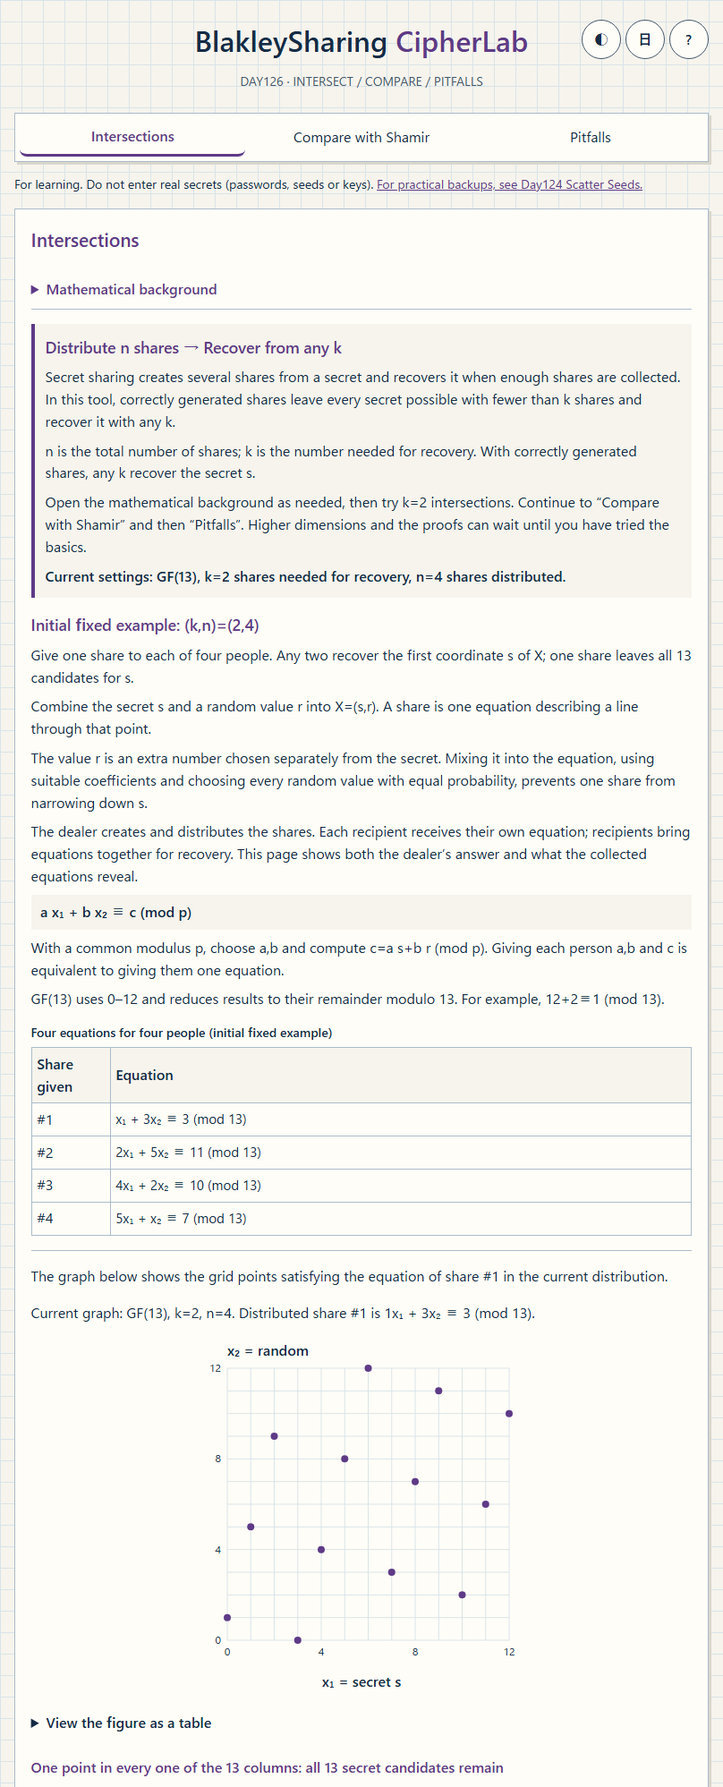
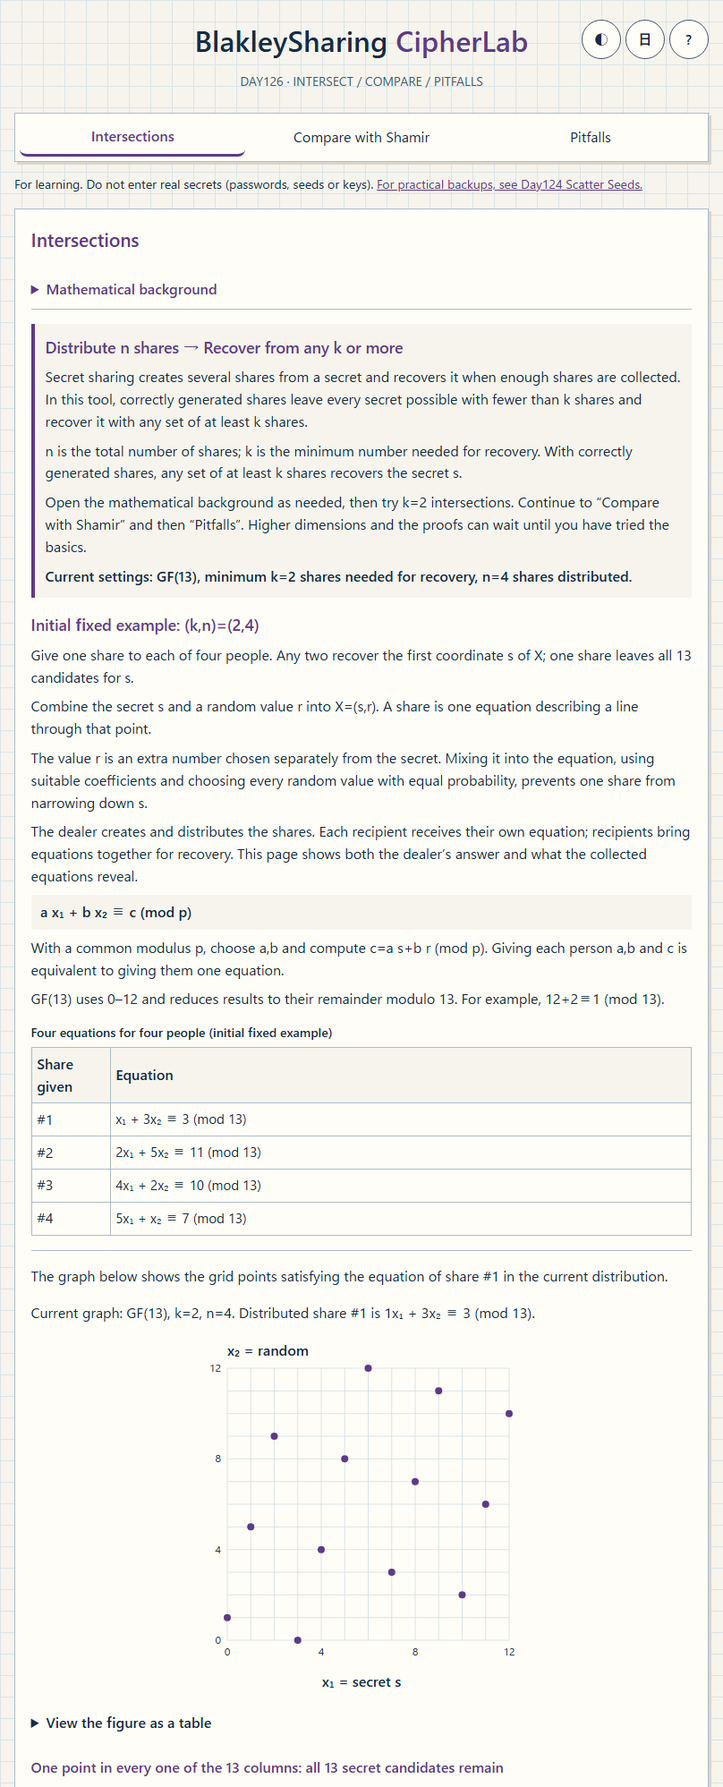
復元条件を任意のk枚以上と明記

diff --git a/messages.js b/messages.js
@@ -6,7 +6,7 @@
   'use strict';
   return {
     ja: {
-      secretSharingDefinition: "秘密分散は、秘密から複数のシェア（配る情報）を作り、必要な枚数を集めて秘密を求める方法です。この教材では、正しく作ればk枚未満からは秘密の値を絞れず、任意のk枚で復元できます。",
+      secretSharingDefinition: "秘密分散は、秘密から複数のシェア（配る情報）を作り、必要な枚数を集めて秘密を求める方法です。この教材では、正しく作ればk枚未満からは秘密の値を絞れず、任意のk枚以上で復元できます。",
       learningRoute: "まず数学の前提を必要に応じて開き、k=2の交点を試します。次に「Shamirと並べる」、最後に「確かめる」へ進みます。k=3以上と座学の証明は、基本を試した後に読めます。",
       primerRoles: "シェアを作って配る人をディーラーと呼びます。受取人は自分の式を受け取り、復元時に式を持ち寄ります。この画面は、配る人の答えと、集めた式だけからわかることの両方を示します。",
       primerRandom: "rは秘密と別に選ぶ補助の数です。式にrを混ぜ、正しい係数の組を使い、乱数を全体から同じ確率で選ぶと、1枚ではsを絞れなくなります。",
@@ -28,7 +28,7 @@
       termSecretName: "秘密 s",
       termSecretDefinition: "必要な枚数を集めて求めたい元の値です。この教材では点Xの第1座標に置きます。",
       termThresholdName: "しきい値 k と総数 n",
-      termThresholdDefinition: "nは配る枚数、kは復元に必要な枚数です。正しく作ったシェアなら、どのk枚でも復元できます。",
+      termThresholdDefinition: "nは配る枚数、kは復元に必要な最小枚数です。正しく作ったシェアなら、任意のk枚以上で復元できます。",
       termCandidateName: "候補",
       termCandidateDefinition: "集めたシェアと、わかっている生成条件に矛盾しない値や点です。候補を選ぶ操作は、答えの入力ではありません。",
       termRandomName: "乱数",
@@ -96,7 +96,7 @@
       lesson2Guide: "この節は「k枚なら復元、k−1枚なら情報が増えない」を証明します。一様な乱数の下で、どの秘密にも同じ数の乱数の組が対応することが要点です。下の行列はその確認に使います。",
       lesson3Guide: "1979年の論文と、この教材の有限体の式は同じ書き方ではありません。原文の記述と、教材で置いた条件を分けて読みます。原資料を詳しく確認したい人のための節です。",
       lesson5Guide: "1枚にいくつの数を入れる必要があるかを比べます。係数を毎回渡すか、番号から決めるかで量が変わります。表の単位は有限体の数1個で、保存容量のバイト数ではありません。",
-      lesson6Guide: "どのk枚でも復元し、k−1枚では秘密を絞らないように、式の係数を選ぶ必要があります。ここでは実装済みの2つの作り方と、関連する別の構成・上限を分けて説明します。",
+      lesson6Guide: "任意のk枚以上で復元し、k−1枚では秘密を絞らないように、式の係数を選ぶ必要があります。ここでは実装済みの2つの作り方と、関連する別の構成・上限を分けて説明します。",
       lesson8Guide: "線形とは、秘密と乱数をそれぞれ決まった数倍して足す形です。この見方を広げると、人数だけでなく「誰と誰がそろえば戻せるか」も表せます。下はそのための発展事項です。",
       lesson9Guide: "枚数を増やすと、式の答えが合わないことや、一定の条件でどの1枚が合わないかを調べられます。これは秘密を隠す性質とも、送信者を確かめる認証とも別の話です。",
       lesson10Guide: "次に学ぶ内容と、実用のバックアップを扱うツールを選ぶ案内です。表で、目的と操作の違いを確認してください。",
@@ -114,9 +114,9 @@
       practical: "実用のバックアップはDay124 Scatter Seedsへ。",
       intro: "下の図は、現在配っているシェア#1の式を満たす格子点です。",
       nearestGridPoint: "最寄りの格子点",
-      thresholdTitle: "n枚を配る → 任意のk枚で復元",
-      thresholdDefinition: "nは配るシェアの総数、kは復元に必要な枚数です。正しく作ったシェアなら、どのk枚を集めても秘密sを復元できます。",
-      thresholdSummary: "現在の設定：GF({p})、復元に必要な枚数k={k}、配る総数n={n}。",
+      thresholdTitle: "n枚を配る → 任意のk枚以上で復元",
+      thresholdDefinition: "nは配るシェアの総数、kは復元に必要な最小枚数です。正しく作ったシェアなら、任意のk枚以上を集めて秘密sを復元できます。",
+      thresholdSummary: "現在の設定：GF({p})、復元に必要な最小枚数k={k}、配る総数n={n}。",
       primerTitle: "最初の固定例：(k,n)=(2,4)",
       primerPeople: "4人に1枚ずつ配ります。どの2枚からも点Xの第1座標sが求まり、1枚ではsの13候補がすべて残ります。",
       primerPoint: "秘密sと乱数rを組にして、点X=(s,r)を作ります。1枚のシェアは、この点を通る直線を表す1本の式です。",
@@ -380,13 +380,13 @@
       compareLinearGeneralization: "集まったシェアから秘密の座標を求められるかを行列で決める考え方は、線形秘密分散につながります。",
       compareLesson: "座学8：線形秘密分散への橋",
       lesson1Title: "1. しきい値法と1979年の2つの提案",
-      lesson1Intro: "秘密分散では、秘密から複数のシェアを作ります。(k,n) しきい値法では、n枚のうち任意のk枚で秘密を戻せます。",
+      lesson1Intro: "秘密分散では、秘密から複数のシェアを作ります。(k,n) しきい値法では、n枚のうち任意のk枚以上で秘密を戻せます。",
       lesson1Privacy: "完全な秘密分散では、k枚未満を見ても秘密についての確率は変わりません。候補が複数残るだけでは、この性質を示したことにはなりません。",
       lesson1History: "ShamirとBlakleyは1979年に、しきい値法を独立に提案しました。このツールでは、有限体での超平面の交点を使う形を学びます。",
       lesson1TableCaption: "秘密とシェアの見せ方",
       lesson1TableH1: "方式",
       lesson1TableH2: "学習用の表し方",
-      lesson1TableH3: "k枚を集めたとき",
+      lesson1TableH3: "k枚以上を集めたとき",
       lesson1TableR1C1: "Shamir",
       lesson1TableR1C2: "秘密は多項式の定数項。シェアは曲線上の点",
       lesson1TableR1C3: "多項式を定めて定数項を読む",
@@ -616,7 +616,7 @@
       lesson8MapR5C1: "e₁ を作れない集合",
       lesson8MapR5C2: "資格のない集合",
       lesson8MapR5C3: "第2節の乱数の前提で、sの情報が増えない",
-      lesson8Check: "検査 (ii) は、k−1枚のどの集合もe₁ を作れないことを保証します。検査 (i) と合わせると、任意のk枚で復元できるしきい値の参加条件になります。",
+      lesson8Check: "検査 (ii) は、k−1枚のどの集合もe₁ を作れないことを保証します。検査 (i) と合わせると、任意のk枚以上で復元できるしきい値の参加条件になります。",
       lesson8Msp: "行に参加者名を付け、目標ベクトルを作れるかで受理を決める表現を、モノトーン・スパン・プログラム（MSP）と呼びます。",
       lesson8History: "BeimelのRemark 2は、Brickellが1989年に1人1行の場合を暗黙に定義し、Karchmer–Wigdersonが1993年にスパン・プログラムを明示的に定義したと説明しています。",
       lesson8Status: "この説明はBeimelのClaim 2・Remark 2（二次・本文確認）に基づきます。BrickellとKarchmer–Wigdersonの原論文は書誌を確認しましたが、本文は未確認です。",
@@ -671,8 +671,9 @@
       lesson10Day125: "Day125 Overlay QR Shares",
     },
     en: {
-      secretSharingDefinition: "Secret sharing creates several shares from a secret and recovers it when enough shares are collected. In this tool, "
-        + "correctly generated shares leave every secret possible with fewer than k shares and recover it with any k.",
+      secretSharingDefinition: "Secret sharing creates several shares from a secret and recovers it when enough shares are collected. In this "
+        + "tool, correctly generated shares leave every secret possible with fewer than k shares and recover it with any "
+        + "set of at least k shares.",
       learningRoute: "Open the mathematical background as needed, then try k=2 intersections. Continue to “Compare with Shamir” and then “Pitfalls”. "
         + "Higher dimensions and the proofs can wait until you have tried the basics.",
       primerRoles: "The dealer creates and distributes the shares. Each recipient receives their own equation; recipients bring equations together for "
@@ -707,7 +708,8 @@
       termSecretName: "Secret s",
       termSecretDefinition: "The original value to recover by collecting enough shares. This tool places it in the first coordinate of X.",
       termThresholdName: "Threshold k and total n",
-      termThresholdDefinition: "n is the number distributed; k is the number needed for recovery. With correctly generated shares, any k suffice.",
+      termThresholdDefinition: "n is the number distributed; k is the minimum number needed for recovery. With correctly generated shares, any"
+        + " set of at least k shares suffices.",
       termCandidateName: "Candidate",
       termCandidateDefinition: "A value or point consistent with the collected shares and known generation rules. Selecting a candidate does not enter "
         + "the answer.",
@@ -802,8 +804,9 @@
         + "the conditions used here, for readers who want to examine the original source.",
       lesson5Guide: "Compare how many numbers one share needs. The count changes when coefficients are distributed each time or derived from indices. "
         + "The table counts field elements, not bytes of stored data.",
-      lesson6Guide: "Coefficients must allow any k shares to recover the secret while k−1 reveal no information under the stated randomness "
-        + "assumptions. This section distinguishes the two implemented methods from other constructions and bounds.",
+      lesson6Guide: "Coefficients must allow any set of at least k shares to recover the secret while k−1 reveal no information "
+        + "under the stated randomness assumptions. This section distinguishes the two implemented methods from other "
+        + "constructions and bounds.",
       lesson8Guide: "Linear means multiplying the secret and random values by fixed coefficients and adding them. Extending this view can describe "
         + "which people must join together, not just how many. The material below develops this idea.",
       lesson9Guide: "Extra shares can reveal inconsistent answers and, under stated conditions, identify one faulty share. This is separate both from "
@@ -825,10 +828,10 @@
       practical: "For practical backups, see Day124 Scatter Seeds.",
       intro: "The graph below shows the grid points satisfying the equation of share #1 in the current distribution.",
       nearestGridPoint: "Nearest grid point",
-      thresholdTitle: "Distribute n shares → Recover from any k",
-      thresholdDefinition: "n is the total number of shares; k is the number needed for recovery. With correctly generated shares, any k recover "
-        + "the secret s.",
-      thresholdSummary: "Current settings: GF({p}), k={k} shares needed for recovery, n={n} shares distributed.",
+      thresholdTitle: "Distribute n shares → Recover from any k or more",
+      thresholdDefinition: "n is the total number of shares; k is the minimum number needed for recovery. With correctly generated shares,"
+        + " any set of at least k shares recovers the secret s.",
+      thresholdSummary: "Current settings: GF({p}), minimum k={k} shares needed for recovery, n={n} shares distributed.",
       primerTitle: "Initial fixed example: (k,n)=(2,4)",
       primerPeople: "Give one share to each of four people. Any two recover the first coordinate s of X; one share leaves all 13 "
         + "candidates for s.",
@@ -1136,8 +1139,8 @@
         + "secret sharing.",
       compareLesson: "Theory 8: a bridge to linear secret sharing",
       lesson1Title: "1. Threshold schemes and the two proposals of 1979",
-      lesson1Intro: "Secret sharing creates several shares from a secret. In a (k,n) threshold scheme, any k of the n shares "
-        + "recover the secret.",
+      lesson1Intro: "Secret sharing creates several shares from a secret. In a (k,n) threshold scheme, any set of at least k of the"
+        + " n shares can recover the secret.",
       lesson1Privacy: "Perfect secrecy means that fewer than k shares do not change the probabilities of the secret. Having "
         + "several remaining candidates alone is insufficient.",
       lesson1History: "Shamir and Blakley independently proposed threshold schemes in 1979. This tool explores a form using "
@@ -1145,7 +1148,7 @@
       lesson1TableCaption: "Two ways to represent a secret and its shares",
       lesson1TableH1: "Scheme",
       lesson1TableH2: "Educational representation",
-      lesson1TableH3: "With k shares",
+      lesson1TableH3: "With at least k shares",
       lesson1TableR1C1: "Shamir",
       lesson1TableR1C2: "The secret is the constant coefficient; shares are points on the polynomial",
       lesson1TableR1C3: "Determine the polynomial and read its constant coefficient",
@@ -1423,8 +1426,8 @@
       lesson8MapR5C1: "A set that cannot span e₁",
       lesson8MapR5C2: "Unqualified set",
       lesson8MapR5C3: "Reveals no information about s under Section 2’s randomness assumptions",
-      lesson8Check: "Check (ii) ensures that no set of k−1 shares spans e₁. Together with (i), it gives a threshold access "
-        + "rule: any k shares can reconstruct.",
+      lesson8Check: "Check (ii) ensures that no set of k−1 shares spans e₁. Together with (i), it gives a threshold access rule: "
+        + "any set of at least k shares can reconstruct.",
       lesson8Msp: "A monotone span program (MSP) labels rows by participants and accepts a set when its rows span the target "
         + "vector.",
       lesson8History: "Beimel’s Remark 2 credits Brickell (1989) with the implicit one-row-per-party case, and "

diff --git a/index.html b/index.html
@@ -85,9 +85,9 @@
         </section>
       </details>
       <section id="sharing-primer" class="sharing-primer" aria-labelledby="threshold-title">
-        <h3 id="threshold-title" class="threshold-flow" data-i18n="thresholdTitle">n枚を配る → 任意のk枚で復元</h3>
-        <p data-i18n="secretSharingDefinition">秘密分散は、秘密から複数のシェア（配る情報）を作り、必要な枚数を集めて秘密を求める方法です。この教材では、正しく作ればk枚未満からは秘密の値を絞れず、任意のk枚で復元できます。</p>
-        <p data-i18n="thresholdDefinition">nは配るシェアの総数、kは復元に必要な枚数です。正しく作ったシェアなら、どのk枚を集めても秘密sを復元できます。</p>
+        <h3 id="threshold-title" class="threshold-flow" data-i18n="thresholdTitle">n枚を配る → 任意のk枚以上で復元</h3>
+        <p data-i18n="secretSharingDefinition">秘密分散は、秘密から複数のシェア（配る情報）を作り、必要な枚数を集めて秘密を求める方法です。この教材では、正しく作ればk枚未満からは秘密の値を絞れず、任意のk枚以上で復元できます。</p>
+        <p data-i18n="thresholdDefinition">nは配るシェアの総数、kは復元に必要な最小枚数です。正しく作ったシェアなら、任意のk枚以上を集めて秘密sを復元できます。</p>
         <p data-i18n="learningRoute">まず数学の前提を必要に応じて開き、k=2の交点を試します。次に「Shamirと並べる」、最後に「確かめる」へ進みます。k=3以上と座学の証明は、基本を試した後に読めます。</p>
         <p id="threshold-summary" class="threshold-current"></p>
       </section>
@@ -460,7 +460,7 @@
       <dl class="beginner-glossary">
         <dt data-i18n="termShareName">シェア</dt><dd data-i18n="termShareDefinition">秘密から作り、各人に配る情報です。この教材のBlakleyでは、係数と右辺で表す1本の式に当たります。</dd>
         <dt data-i18n="termSecretName">秘密 s</dt><dd data-i18n="termSecretDefinition">必要な枚数を集めて求めたい元の値です。この教材では点Xの第1座標に置きます。</dd>
-        <dt data-i18n="termThresholdName">しきい値 k と総数 n</dt><dd data-i18n="termThresholdDefinition">nは配る枚数、kは復元に必要な枚数です。正しく作ったシェアなら、どのk枚でも復元できます。</dd>
+        <dt data-i18n="termThresholdName">しきい値 k と総数 n</dt><dd data-i18n="termThresholdDefinition">nは配る枚数、kは復元に必要な最小枚数です。正しく作ったシェアなら、任意のk枚以上で復元できます。</dd>
         <dt data-i18n="termCandidateName">候補</dt><dd data-i18n="termCandidateDefinition">集めたシェアと、わかっている生成条件に矛盾しない値や点です。候補を選ぶ操作は、答えの入力ではありません。</dd>
         <dt data-i18n="termRandomName">乱数</dt><dd data-i18n="termRandomDefinition">秘密と別に選ぶ補助の数です。全体から同じ確率で選ぶことを「一様に選ぶ」と呼びます。</dd>
         <dt data-i18n="termFieldName">有限体 GF(p)</dt><dd data-i18n="termFieldDefinition">この教材ではpを素数とし、0〜p−1を使って、pで割った余りで計算します。0以外の数での割り算も定義できます。</dd>
@@ -473,7 +473,7 @@
       <div id="lessons">
 <details id="lesson-1" class="lesson">
 <summary data-i18n="lesson1Title">1. しきい値法と1979年の2つの提案</summary>
-<p data-i18n="lesson1Intro">秘密分散では、秘密から複数のシェアを作ります。(k,n) しきい値法では、n枚のうち任意のk枚で秘密を戻せます。</p>
+<p data-i18n="lesson1Intro">秘密分散では、秘密から複数のシェアを作ります。(k,n) しきい値法では、n枚のうち任意のk枚以上で秘密を戻せます。</p>
 <p data-i18n="lesson1Privacy">完全な秘密分散では、k枚未満を見ても秘密についての確率は変わりません。候補が複数残るだけでは、この性質を示したことにはなりません。</p>
 <p data-i18n="lesson1History">ShamirとBlakleyは1979年に、しきい値法を独立に提案しました。このツールでは、有限体での超平面の交点を使う形を学びます。</p>
 <table class="responsive-table">
@@ -481,7 +481,7 @@
 <thead><tr>
 <th data-i18n="lesson1TableH1" scope="col">方式</th>
 <th data-i18n="lesson1TableH2" scope="col">学習用の表し方</th>
-<th data-i18n="lesson1TableH3" scope="col">k枚を集めたとき</th>
+<th data-i18n="lesson1TableH3" scope="col">k枚以上を集めたとき</th>
 </tr></thead><tbody>
 <tr>
 <td data-i18n="lesson1TableR1C1" data-cell-label="lesson1TableH1">Shamir</td>
@@ -715,7 +715,7 @@
 </details>
 <details id="lesson-6" class="lesson">
 <summary data-i18n="lesson6Title">6. 一般の位置を保証する作り方</summary>
-<p class="reading-guide" data-i18n="lesson6Guide">どのk枚でも復元し、k−1枚では秘密を絞らないように、式の係数を選ぶ必要があります。ここでは実装済みの2つの作り方と、関連する別の構成・上限を分けて説明します。</p>
+<p class="reading-guide" data-i18n="lesson6Guide">任意のk枚以上で復元し、k−1枚では秘密を絞らないように、式の係数を選ぶ必要があります。ここでは実装済みの2つの作り方と、関連する別の構成・上限を分けて説明します。</p>
 <p data-i18n="lesson6Intro">法線が乱数でも、検査 (i)(ii) が自動的に成り立つわけではありません。このツールでは、乱数を引いて検査する方法と、ヴァンデルモンドによる構成を選べます。</p>
 <table class="responsive-table">
 <caption data-i18n="lesson6MethodsCaption">法線の構成と条件</caption>
@@ -892,7 +892,7 @@
 <td data-i18n="lesson8MapR5C3" data-cell-label="lesson8MapH3">第2節の乱数の前提で、sの情報が増えない</td>
 </tr>
 </tbody></table>
-<p data-i18n="lesson8Check">検査 (ii) は、k−1枚のどの集合もe₁ を作れないことを保証します。検査 (i) と合わせると、任意のk枚で復元できるしきい値の参加条件になります。</p>
+<p data-i18n="lesson8Check">検査 (ii) は、k−1枚のどの集合もe₁ を作れないことを保証します。検査 (i) と合わせると、任意のk枚以上で復元できるしきい値の参加条件になります。</p>
 <p data-i18n="lesson8Msp">行に参加者名を付け、目標ベクトルを作れるかで受理を決める表現を、モノトーン・スパン・プログラム（MSP）と呼びます。</p>
 <p data-i18n="lesson8History">BeimelのRemark 2は、Brickellが1989年に1人1行の場合を暗黙に定義し、Karchmer–Wigdersonが1993年にスパン・プログラムを明示的に定義したと説明しています。</p>
 <p data-i18n="lesson8Status">この説明はBeimelのClaim 2・Remark 2（二次・本文確認）に基づきます。BrickellとKarchmer–Wigdersonの原論文は書誌を確認しましたが、本文は未確認です。</p>

diff --git a/README.en.md b/README.en.md
@@ -14,7 +14,7 @@ BlakleySharing CipherLab is an educational tool for learning secret-sharing cond
 Select shares, compare whole-point candidates with first-coordinate secret candidates, and trace their correspondence with Shamir polynomials.
 
 Secret sharing creates several shares from a secret and recovers the original value when enough shares are collected.
-A share is information given to a recipient; in this tool, it is one equation. With suitable coefficients and randomness, fewer than k shares do not narrow the secret, while any k recover it.
+A share is information given to a recipient; in this tool, it is one equation. With suitable coefficients and randomness, fewer than k shares do not narrow the secret, while any set of at least k shares recovers it.
 
 For learning only. Do not enter actual secrets, including passwords, seed phrases or keys.
 For a practical backup workflow, see [Day124 Scatter Seeds][day124].
@@ -36,7 +36,7 @@ These screenshots use the English interface and light theme. Each caption explai
 
 ![Collapsed mathematical background, n/k definitions and four initial equations](assets/en/screenshot.png)
 
-> *The mathematical background starts collapsed. The page explains recovery from any k of n shares and shows the four equations of the initial (2,4) example.*
+> *The mathematical background starts collapsed. The page explains recovery from any set of at least k of n shares and shows the four equations of the initial (2,4) example.*
 
 ![Thirteen rows connecting Shamir polynomials to Blakley points](assets/en/screenshot2.png)
 
@@ -80,7 +80,7 @@ For example, `(14,5)→(1,5)` and `(32,−1)→(6,12)`. Wrapping only step 2’s
 This is easier to plot because points follow horizontal-axis order, x₁=0–12, as in `(0,1)→(1,5)→(2,9)→(3,0)`.
 The guide paths differ, but the set of points is the same. They do not represent continuous lines between points in GF(13).
 
-n is the total share count, and k is the number needed for recovery. Correctly generated shares allow recovery from any k.
+n is the total share count, and k is the minimum number needed for recovery. Correctly generated shares allow recovery from any set of at least k shares.
 The introduction before the graph explains this relationship and shows the current p, k and n.
 The initial (2,4) example gives one share to each of four people, with any two sufficient for recovery.
 The dealer creates and distributes shares. Recipients receive their own equations and bring them together for recovery.
